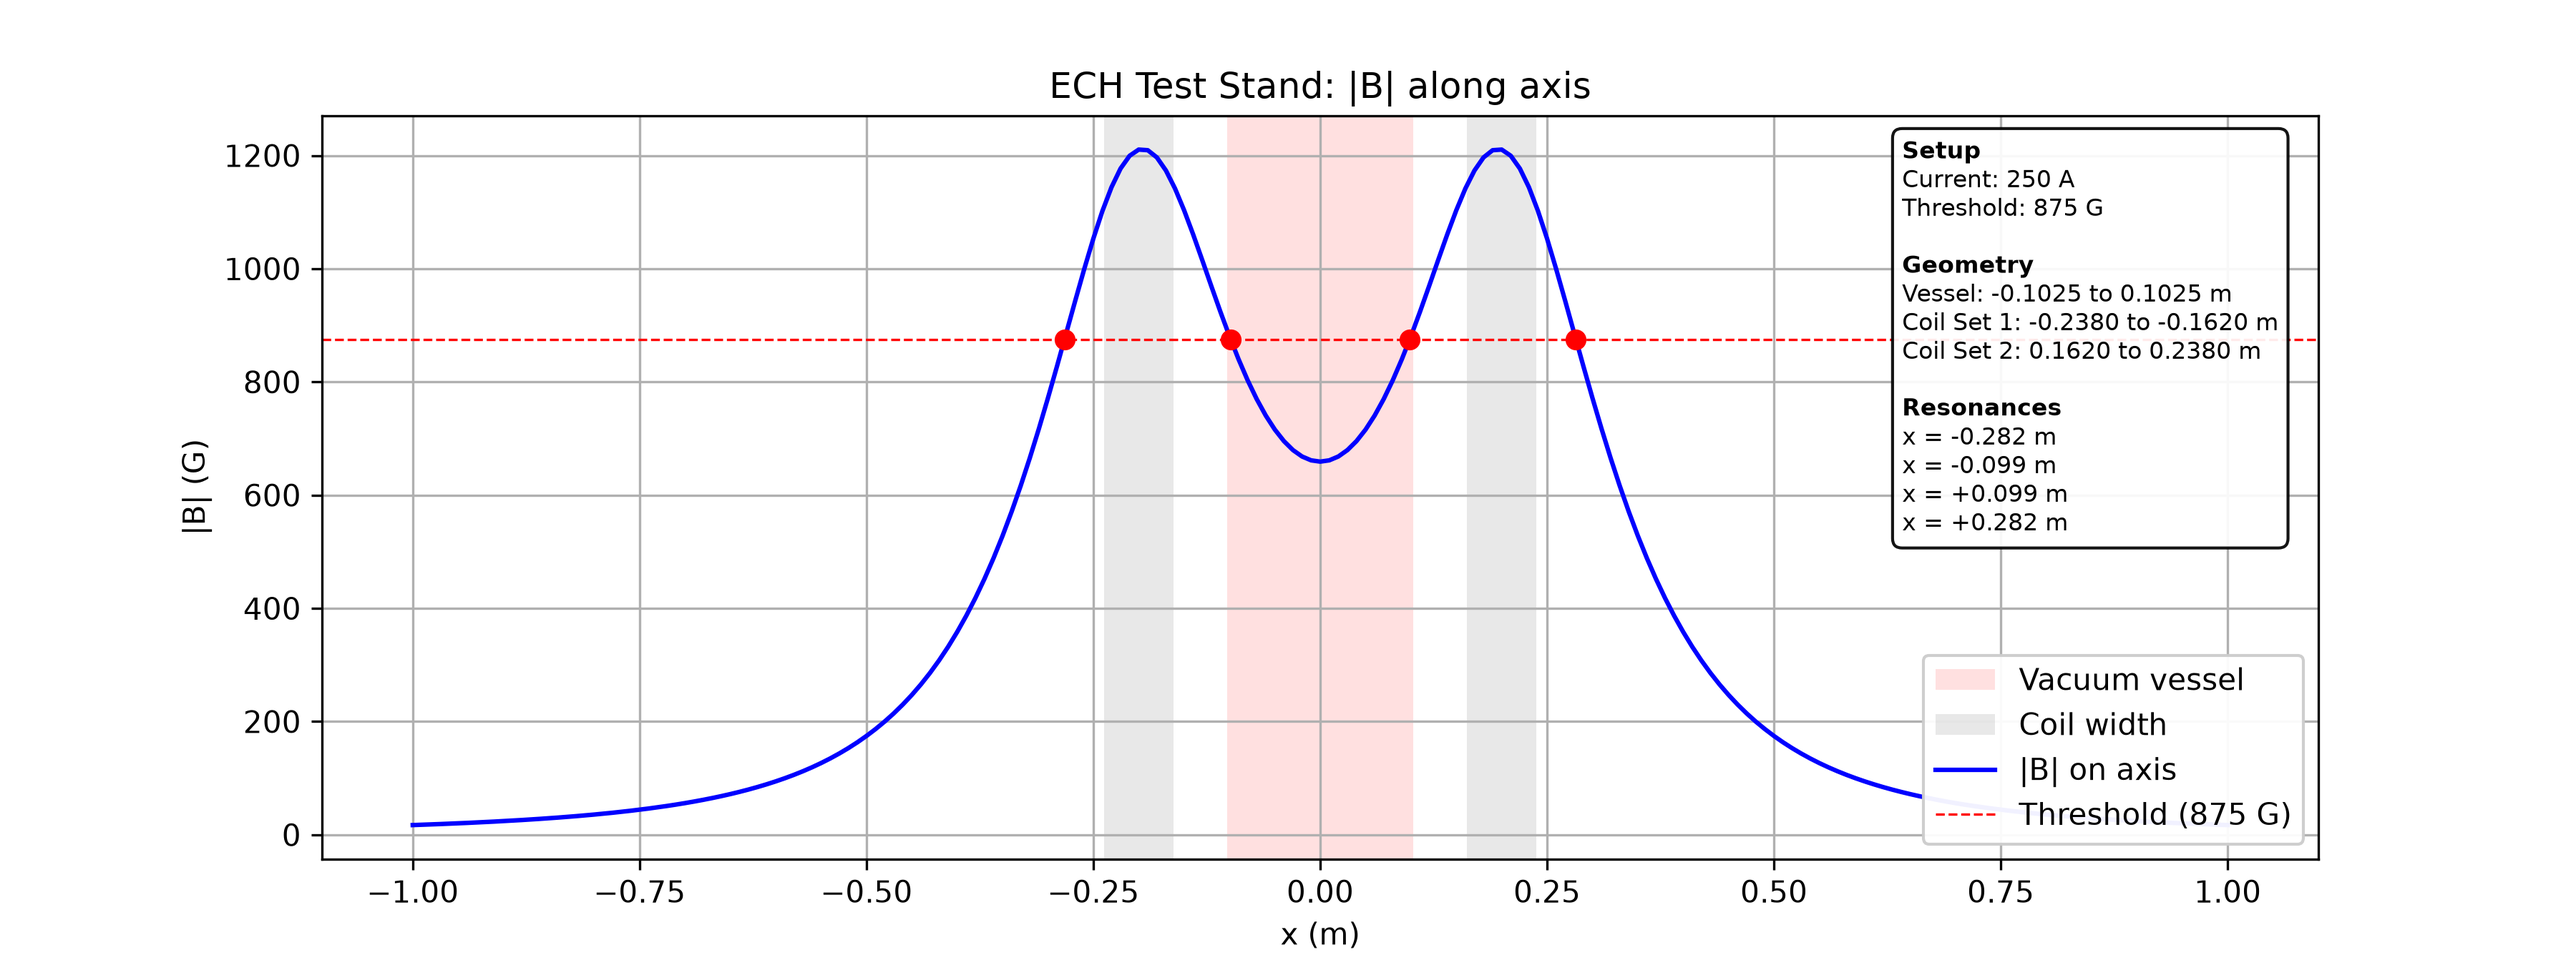
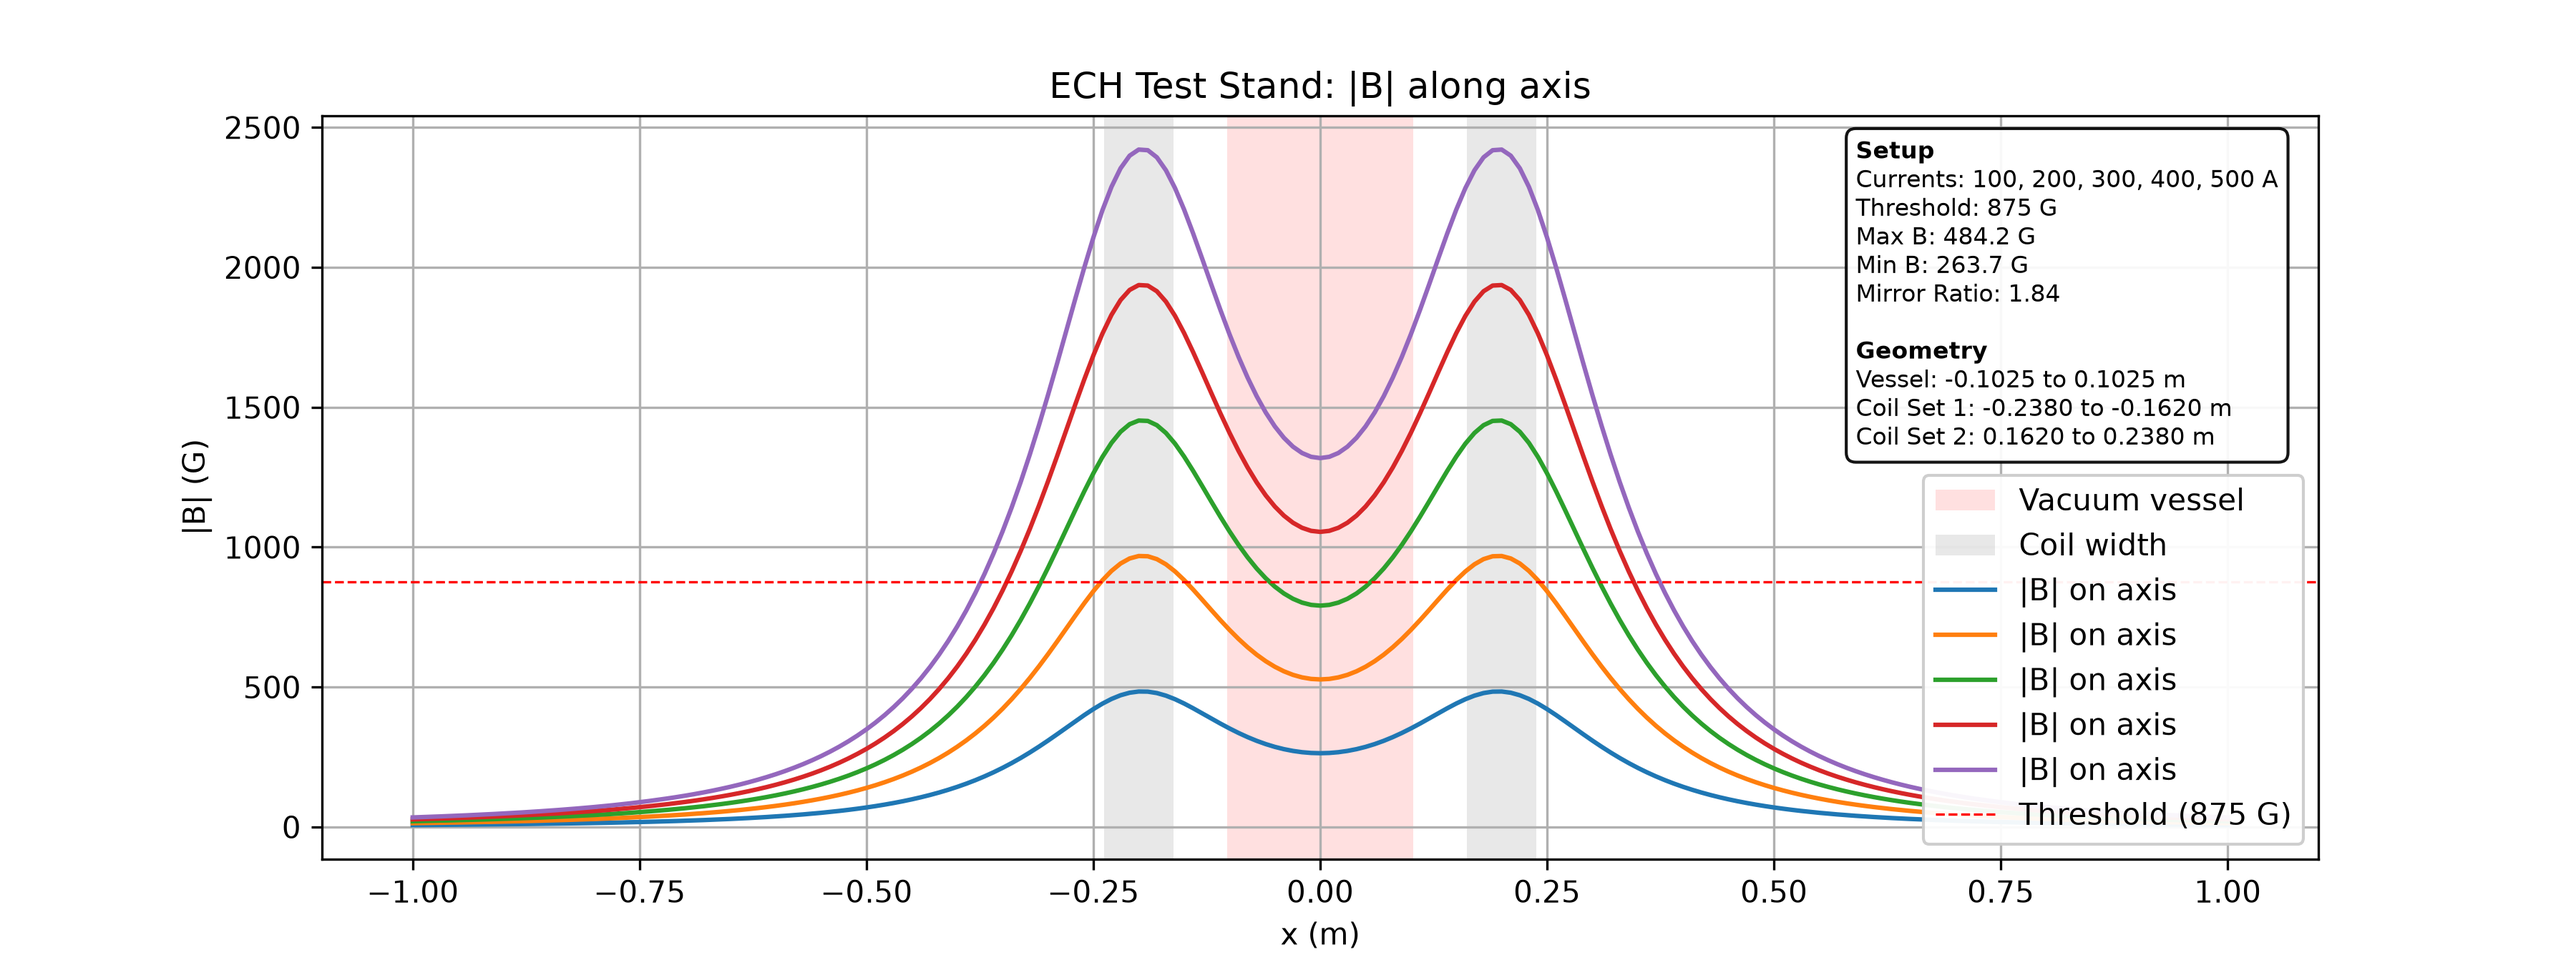
Work on multiple currents

diff --git a/ECH_test_stand.py b/ECH_test_stand.py
@@ -1,10 +1,11 @@
 # pyright: standard
 import matplotlib.pyplot as plt
 import numpy as np
+from pandas.compat.pyarrow import pa_version_under14p0
 
 from field import get_coil_info
 
-CURRENT = 250  # Amps
+CURRENTS = np.linspace(100, 500, 5)  # Amps
 THRESHOLD = 875.0  # Gauss
 COIL_WIDTH = 0.076
 VESSEL_WIDTH = 0.205  # 20.5 cm
@@ -21,12 +22,39 @@ axis_points_x = np.linspace(-1, 1, 201)
 axis_points = np.column_stack(
     [axis_points_x, np.zeros_like(axis_points_x), np.zeros_like(axis_points_x)]
 )
-B_field = np.zeros_like(axis_points)
-for coil in coils:
-    # For each coil, compute the field at each poing and sum them
-    B_field += coil.magnetic_field(axis_points, CURRENT)
 
-B_mag = np.linalg.norm(B_field, axis=1)
+B_mags = []
+for current in CURRENTS:
+    B_field = np.zeros_like(axis_points)  # Initialize field array
+    for coil in coils:
+        # For each coil, compute the field at each point and sum them
+        B_field += coil.magnetic_field(axis_points, current)
+    B_mag = np.linalg.norm(B_field, axis=1)
+    B_mags.append(B_mag)
+
+
+# --- NEW CODE: Calculate Mirror Ratio ---
+# Use the field from the first current for mirror ratio calculation since it only depends on the geometry
+# Find local maxima in the field to identify the extrema coils
+bm0 = B_mags[0]
+diffs = np.diff(bm0)
+is_max = (diffs[:-1] > 0) & (diffs[1:] < 0)
+maxima_idxs = np.where(is_max)[0] + 1
+
+if len(maxima_idxs) >= 2:
+    # Slice the region between the left-most and right-most maxima
+    left_peak = maxima_idxs[0]
+    right_peak = maxima_idxs[-1]
+    B_min = np.min(bm0[left_peak : right_peak + 1])
+    B_max = np.max(bm0)  # Overall maximum field
+    mirror_ratio = B_max / B_min
+else:
+    # Fallback just in case the field doesn't have distinct multiple peaks
+    B_min = np.min(bm0)
+    B_max = np.max(bm0)
+    mirror_ratio = B_max / B_min if B_min > 0 else float("inf")
+# ----------------------------------------
+
 fig, ax = plt.subplots(figsize=(12, 4.5))
 
 # Shade vacuum vessel region centered on x=0
@@ -54,11 +82,11 @@ for i, coil in enumerate(coils):
         zorder=0,
         label="Coil width" if i == 0 else None,
     )
-
-ax.plot(axis_points_x, B_mag * 10000, color="blue", zorder=2, label="|B| on axis")
+for current, B_mag in zip(CURRENTS, B_mags):
+    ax.plot(axis_points_x, B_mag * 10000, zorder=2, label="|B| on axis")
 
 # Mark threshold crossings
-y = B_mag * 10000
+y = bm0 * 10000
 ax.axhline(
     THRESHOLD,
     color="red",
@@ -95,8 +123,11 @@ vessel_left = VESSEL_CENTER_X - VESSEL_WIDTH / 2
 vessel_right = VESSEL_CENTER_X + VESSEL_WIDTH / 2
 info_lines = [
     r"$\mathbf{Setup}$",
-    f"Current: {CURRENT:.0f} A",
+    f"Currents: {', '.join([f'{c:.0f}' for c in CURRENTS])} A",
     f"Threshold: {THRESHOLD:.0f} G",
+    f"Max B: {B_max * 10000:.1f} G",
+    f"Min B: {B_min * 10000:.1f} G",
+    f"Mirror Ratio: {mirror_ratio:.2f}",  # Output formatted to 2 decimal places
     "",
     r"$\mathbf{Geometry}$",
     f"Vessel: {vessel_left:.4f} to {vessel_right:.4f} m",
